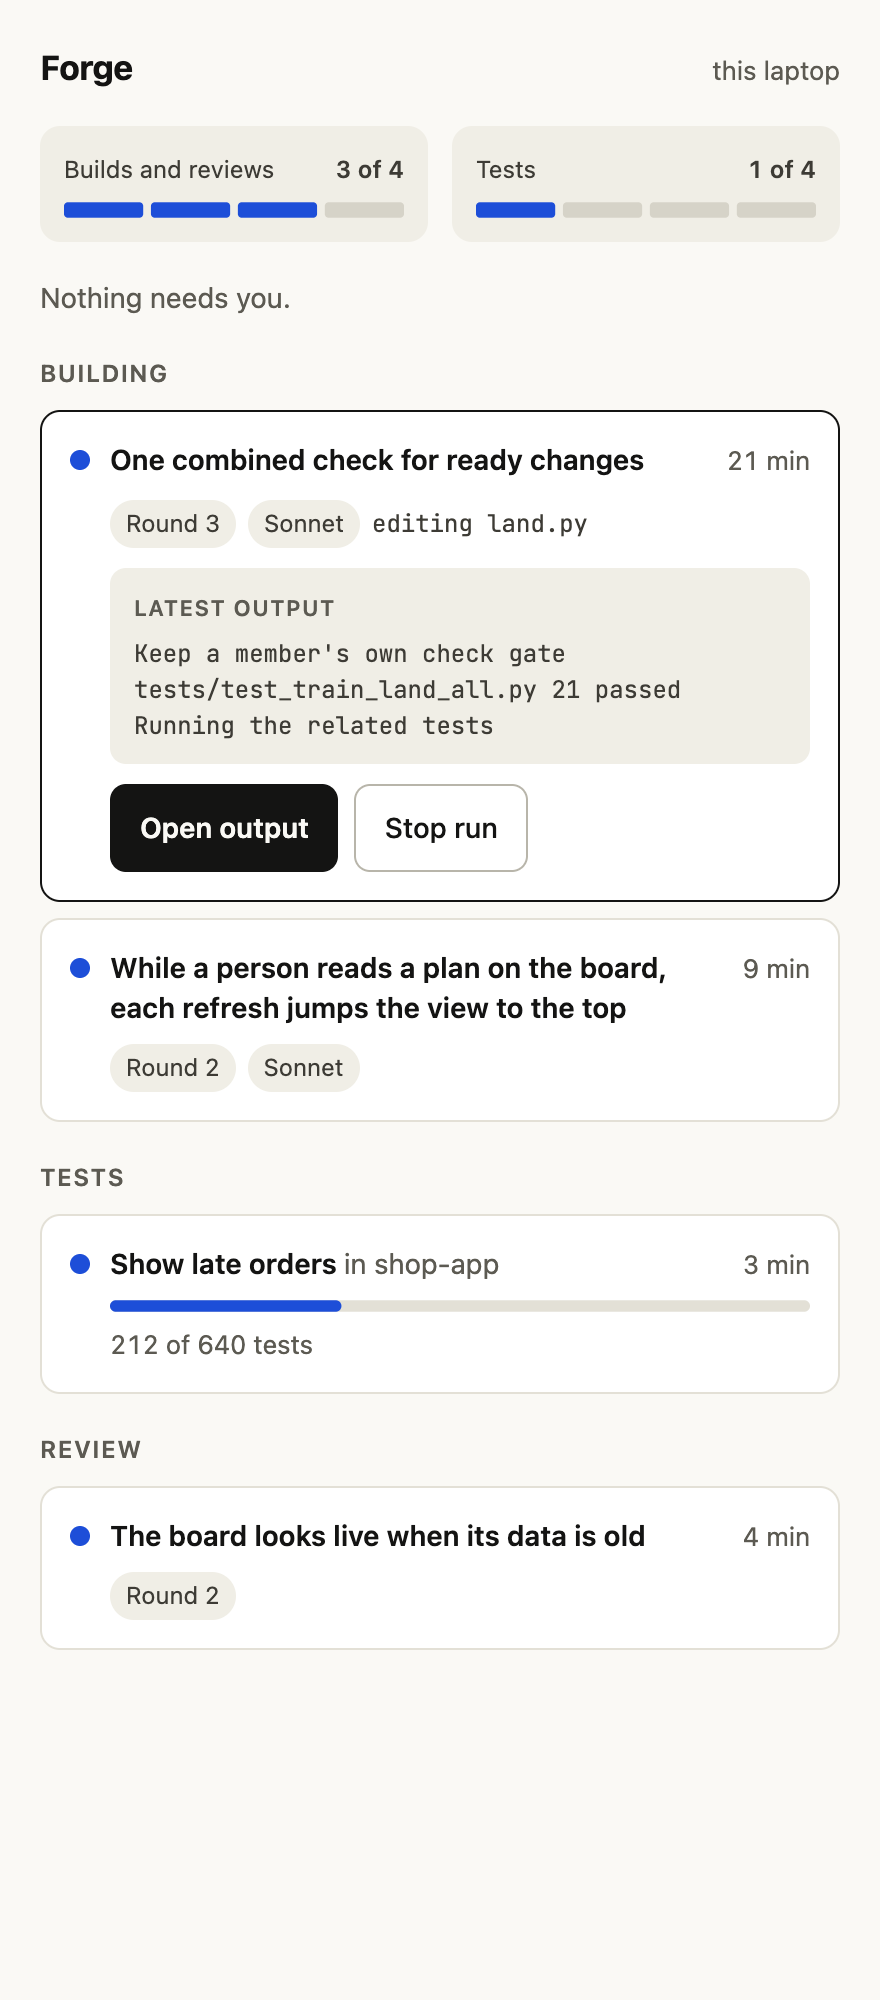
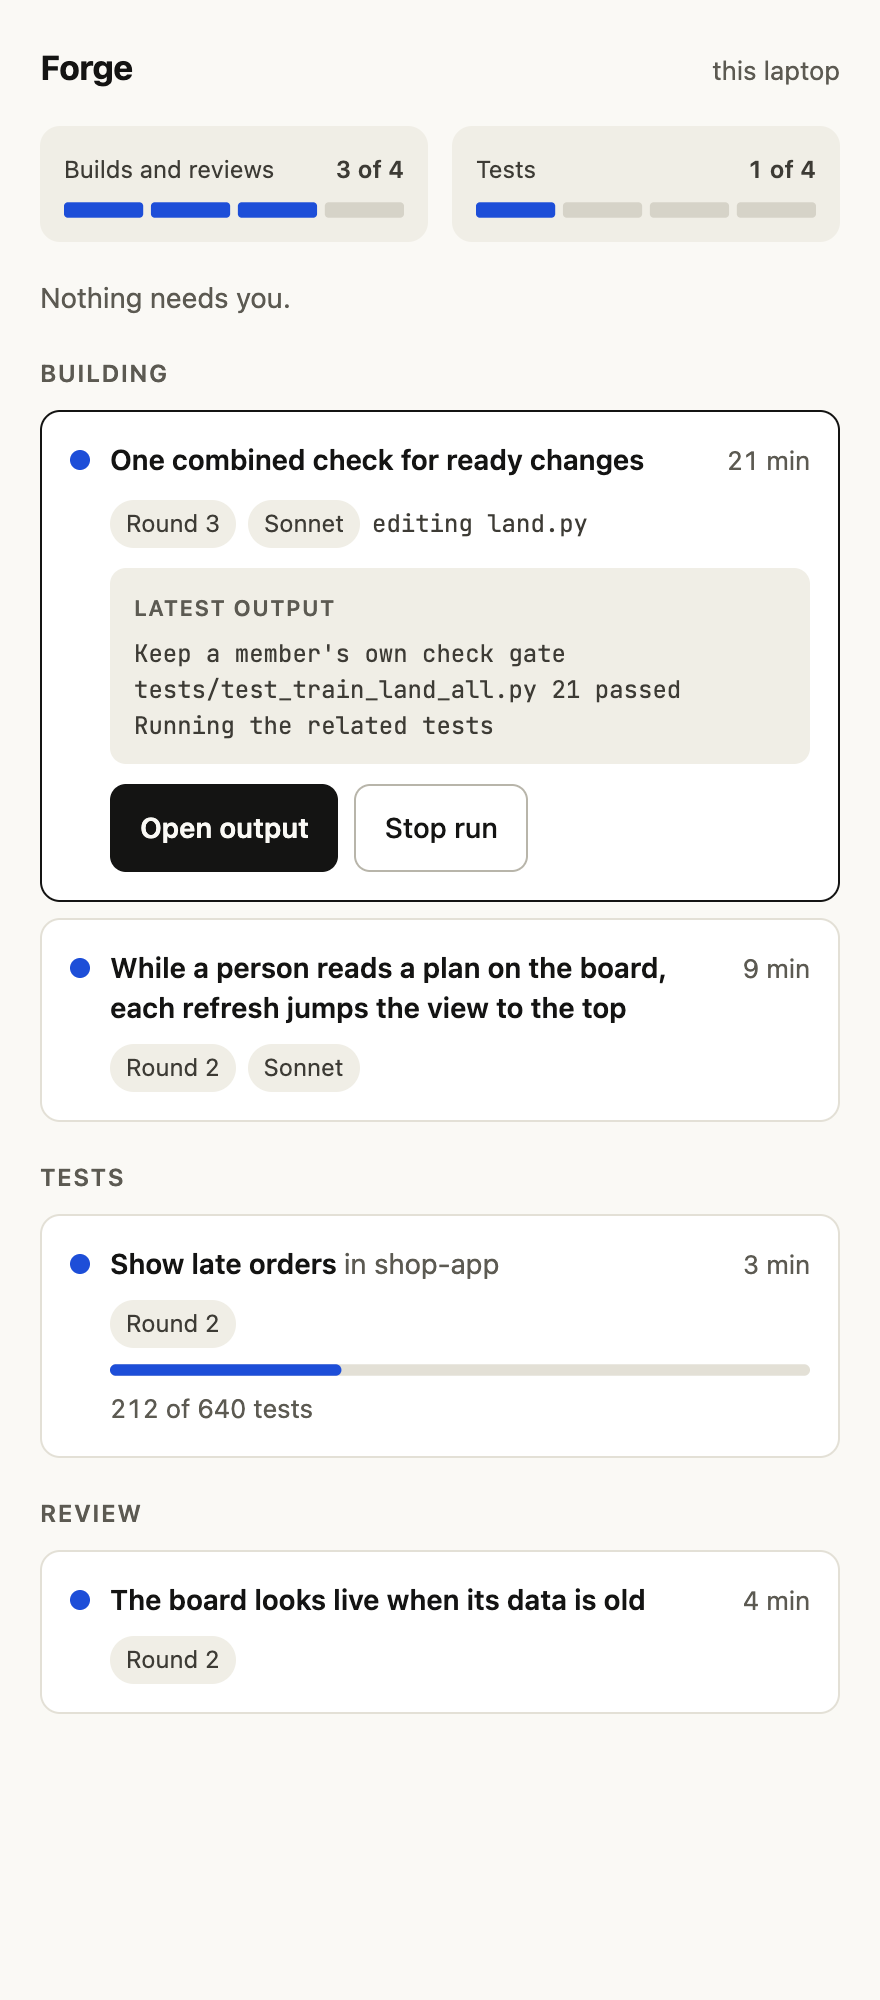
Design for the /forge pane: a waiting run and a test run keep their round

Changed region(s): [[0.0307, 0.651, 0.9205, 0.837], [0.8284, 0.744, 0.9205, 0.806]]

diff --git a/docs/design/FORGE-PANE-1/src/desktop-needs-you.html b/docs/design/FORGE-PANE-1/src/desktop-needs-you.html
@@ -43,7 +43,10 @@ button:focus-visible{outline:2px solid #1d4ed8;outline-offset:2px}
         <div style="flex-grow: 1; font-weight: 600">One combined check for ready changes</div>
         <div style="flex-shrink: 0; font-size: 13px; color: #5c5a52; font-variant-numeric: tabular-nums">21 min</div>
       </div>
-      <div style="padding-left: 20px; font-size: 13px; color: #5c5a52">Waiting for its tests</div>
+      <div style="display: flex; flex-wrap: wrap; gap: 6px; align-items: center; padding-left: 20px; font-size: 13px; color: #5c5a52">
+        <span style="padding: 2px 8px; background: #f0eee6; border-radius: 999px; color: #3d3b35; font-size: 12px">Round 3</span>
+        <span>Waiting for its tests</span>
+      </div>
     </div>
     <div style="display: flex; flex-direction: column; gap: 6px; padding: 14px; background: #ffffff; border: 1px solid #e3e0d6; border-radius: 10px">
       <div style="display: flex; gap: 10px; align-items: flex-start">
@@ -51,7 +54,10 @@ button:focus-visible{outline:2px solid #1d4ed8;outline-offset:2px}
         <div style="flex-grow: 1; font-weight: 600">Export invoices as a spreadsheet <span style="font-weight: 400; color: #5c5a52">in shop-app</span></div>
         <div style="flex-shrink: 0; font-size: 13px; color: #5c5a52; font-variant-numeric: tabular-nums">2 min</div>
       </div>
-      <div style="padding-left: 20px; font-size: 13px; color: #5c5a52">Waiting for a free place</div>
+      <div style="display: flex; flex-wrap: wrap; gap: 6px; align-items: center; padding-left: 20px; font-size: 13px; color: #5c5a52">
+        <span style="padding: 2px 8px; background: #f0eee6; border-radius: 999px; color: #3d3b35; font-size: 12px">Round 1</span>
+        <span>Waiting for a free place</span>
+      </div>
     </div>
   </div>
 

diff --git a/docs/design/FORGE-PANE-1/src/pane-needs-you.html b/docs/design/FORGE-PANE-1/src/pane-needs-you.html
@@ -24,11 +24,11 @@ button:focus-visible{outline:2px solid #9ec1ff;outline-offset:2px}
     <div style="color: #c5cbd6; font-size: 12px; font-weight: 700; letter-spacing: 0.08em">BUILDING</div>
     <button type="button" style="display: flex; flex-direction: column; gap: 2px; text-align: left; min-height: 44px; padding: 8px 10px; background: #252a33; color: #e7e9ee; border: 1px solid #3a414d; border-radius: 4px; cursor: pointer">
       <span>One combined check for ready changes</span>
-      <span style="color: #a4abb8">Waiting for its tests · 21 min</span>
+      <span style="color: #a4abb8">Round 3 · Waiting for its tests · 21 min</span>
     </button>
     <button type="button" style="display: flex; flex-direction: column; gap: 2px; text-align: left; min-height: 44px; padding: 8px 10px; background: transparent; color: #e7e9ee; border: 1px solid transparent; border-radius: 4px; cursor: pointer">
       <span>Export invoices as a spreadsheet in shop-app</span>
-      <span style="color: #a4abb8">Waiting for a free place · 2 min</span>
+      <span style="color: #a4abb8">Round 1 · Waiting for a free place · 2 min</span>
     </button>
   </div>
   <div style="display: flex; flex-direction: column; gap: 8px">

diff --git a/docs/design/FORGE-PANE-1/src/pane-narrow-terminal.html b/docs/design/FORGE-PANE-1/src/pane-narrow-terminal.html
@@ -17,7 +17,7 @@ body{margin:0}
     <div style="font-weight: 700; font-size: 13px; color: #c5cbd6">Forge</div>
     <div style="color: #a4abb8">Nothing needs you.</div>
     <div style="display: flex; gap: 12px"><span style="width: 76px; flex-shrink: 0; color: #c5cbd6">Building</span><span>One combined check for ready changes · round 3 · 21 min · editing land.py</span></div>
-    <div style="display: flex; gap: 12px"><span style="width: 76px; flex-shrink: 0; color: #c5cbd6">Tests</span><span>Show late orders in shop-app · 212 of 640 tests · 3 min</span></div>
+    <div style="display: flex; gap: 12px"><span style="width: 76px; flex-shrink: 0; color: #c5cbd6">Tests</span><span>Show late orders in shop-app · round 2 · 212 of 640 tests · 3 min</span></div>
     <div style="display: flex; gap: 12px"><span style="width: 76px; flex-shrink: 0; color: #c5cbd6">Review</span><span>The board looks live when its data is old · round 2 · 4 min</span></div>
   </div>
   <div style="display: flex; gap: 10px; align-items: center; color: #a4abb8"><span style="color: #e7e9ee">&gt;</span><span>the prompt stays below the frame</span></div>

diff --git a/docs/design/FORGE-PANE-1/src/desktop-running.html b/docs/design/FORGE-PANE-1/src/desktop-running.html
@@ -78,6 +78,9 @@ Running the related tests</div>
         <div style="flex-grow: 1; font-weight: 600">Show late orders <span style="font-weight: 400; color: #5c5a52">in shop-app</span></div>
         <div style="flex-shrink: 0; font-size: 13px; color: #5c5a52; font-variant-numeric: tabular-nums">3 min</div>
       </div>
+      <div style="display: flex; flex-wrap: wrap; gap: 6px; padding-left: 20px; font-size: 12px">
+        <span style="padding: 2px 8px; background: #f0eee6; border-radius: 999px; color: #3d3b35">Round 2</span>
+      </div>
       <div style="display: flex; flex-direction: column; gap: 6px; padding-left: 20px">
         <svg width="366" height="6" viewBox="0 0 366 6" role="img" aria-label="212 of 640 tests done" style="display: block; max-width: 100%"><rect x="0" y="0" width="366" height="6" rx="3" fill="#e3e0d6"></rect><rect x="0" y="0" width="121" height="6" rx="3" fill="#1d4ed8"></rect></svg>
         <div style="font-size: 13px; color: #5c5a52; font-variant-numeric: tabular-nums">212 of 640 tests</div>

diff --git a/docs/design/FORGE-PANE-1/src/pane-running.html b/docs/design/FORGE-PANE-1/src/pane-running.html
@@ -35,7 +35,7 @@ button:focus-visible{outline:2px solid #9ec1ff;outline-offset:2px}
     <div style="color: #c5cbd6; font-size: 12px; font-weight: 700; letter-spacing: 0.08em">TESTS</div>
     <button type="button" style="display: flex; flex-direction: column; gap: 2px; text-align: left; min-height: 44px; padding: 8px 10px; background: transparent; color: #e7e9ee; border: 1px solid transparent; border-radius: 4px; cursor: pointer">
       <span>Show late orders in shop-app</span>
-      <span style="color: #a4abb8">212 of 640 tests · 3 min</span>
+      <span style="color: #a4abb8">Round 2 · 212 of 640 tests · 3 min</span>
     </button>
   </div>
   <div style="display: flex; flex-direction: column; gap: 8px">

diff --git a/docs/design/FORGE-PANE-1/src/pane-text-reply.html b/docs/design/FORGE-PANE-1/src/pane-text-reply.html
@@ -21,7 +21,7 @@ body{margin:0}
     <div style="padding-left: 18px; color: #a4abb8">Round 3 · 21 min · editing land.py</div>
     <div style="color: #c5cbd6; font-weight: 700; margin-top: 8px">TESTS</div>
     <div style="padding-left: 18px">Show late orders in shop-app</div>
-    <div style="padding-left: 18px; color: #a4abb8">212 of 640 tests · 3 min</div>
+    <div style="padding-left: 18px; color: #a4abb8">Round 2 · 212 of 640 tests · 3 min</div>
   </div>
 </div>
 </x-dc>

diff --git a/docs/design/FORGE-PANE-1/SCREENS.md b/docs/design/FORGE-PANE-1/SCREENS.md
@@ -23,7 +23,7 @@ Image: desktop-running.png (440 by 1000)
 - Each run is a card: a filled dot, the title, the time on the right. Below: the round and the
   model as two small tags, and the current step in code type when Forge knows it.
 - A run from another repo adds "in <repo name>" after its title, in lighter text.
-- A test run shows a progress bar and "212 of 640 tests".
+- A test run shows its round as a tag, a progress bar and "212 of 640 tests".
 - The selected card has a dark border. It shows "LATEST OUTPUT" with the last three lines of the
   run's output, and the buttons "Open output" (primary) and "Stop run" (secondary).
 
@@ -33,7 +33,7 @@ Image: desktop-needs-you.png (440 by 1000)
 
 - A soft banner in place of the plain line: "2 items need you" and
   "First: Show late orders has a question for you."
-- A waiting run has a hollow dot and the line "Waiting for its tests" or
+- A waiting run has a hollow dot, its round as a tag, and the line "Waiting for its tests" or
   "Waiting for a free place".
 - Last line when the machine is busy: "The machine is busy. New runs wait."
 
@@ -53,7 +53,9 @@ Text, boxes and buttons only. No drawings, no meters, no tags, no output lines.
 Images: pane-running.png, pane-needs-you.png, pane-nothing-running.png,
 pane-forge-did-not-answer.png (460 wide)
 
-- Each run is two lines: the title, then "Round 3 · 21 min · editing land.py".
+- Each run is two lines: the title, then "Round 3 · 21 min · editing land.py". A waiting run
+  and a test run keep their round: "Round 1 · Waiting for a free place · 2 min" and
+  "Round 2 · 212 of 640 tests · 3 min".
 - The selected run has a filled background.
 - "Nothing is running." when no run exists.
 - The buttons "Open output" and "Stop run" sit at the bottom.
